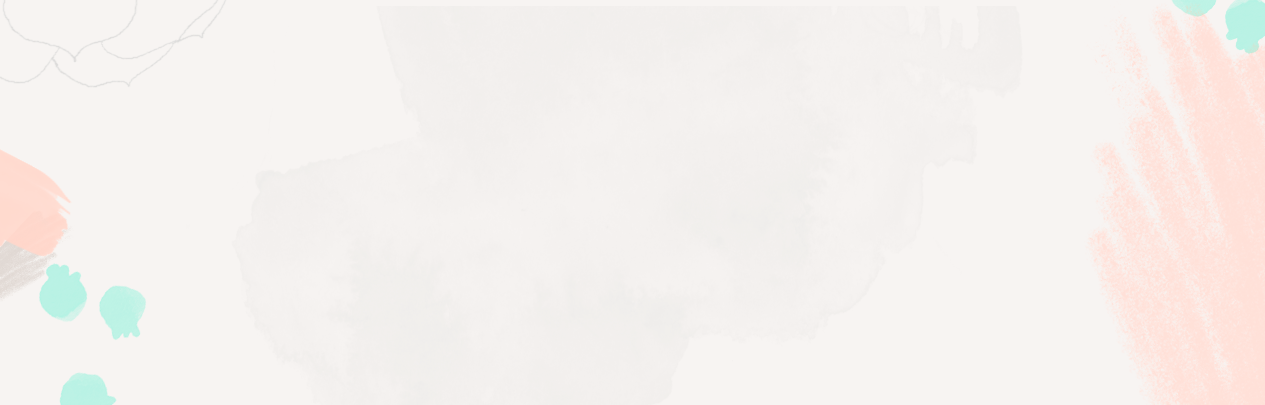
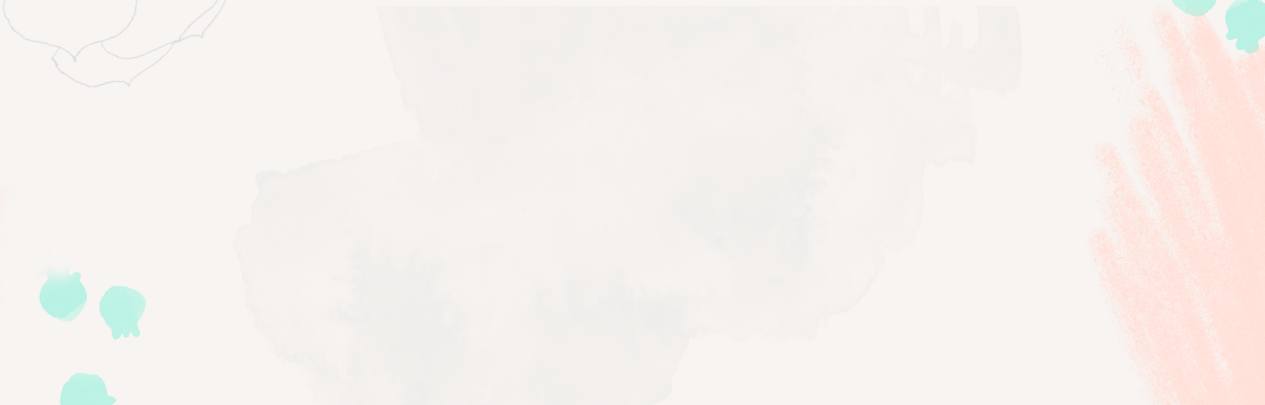
css

Changed region(s): [[0.0, 0.3852, 0.0617, 0.7111]]

diff --git a/static/css/footer.css b/static/css/footer.css
@@ -7,7 +7,7 @@
   background-color: #f7f4f2;
   background-image: url(/static/images/footer.png);
   background-repeat: no-repeat;
-  background-position: center top;
+  background-position: center right;
   font-family: 'PT Sans Caption', sans-serif;
   text-transform: uppercase;
 
